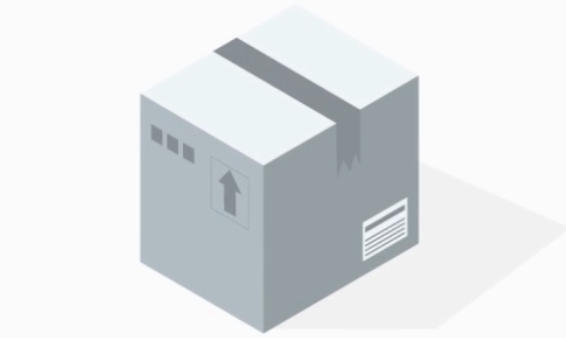
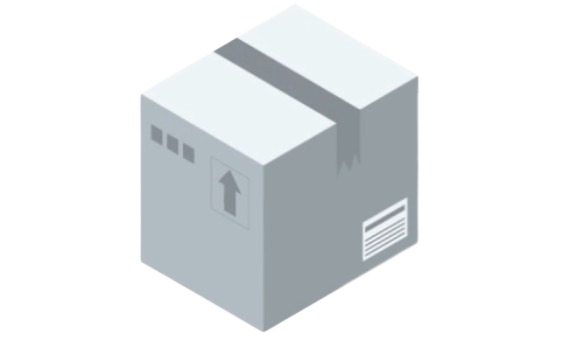
updated shipment history

diff --git a/lib/screens/shipment_history/components/shipment_history.view.dart b/lib/screens/shipment_history/components/shipment_history.view.dart
@@ -1,33 +1,45 @@
 import 'package:flutter/material.dart';
 import 'package:flutter_animate/flutter_animate.dart';
 import 'package:flutter_screenutil/flutter_screenutil.dart';
+import 'package:movemate/assets/images.dart';
 import 'package:movemate/core/styles/colors.dart';
 import 'package:movemate/core/styles/spacing.dart';
 import 'package:movemate/core/styles/text.dart';
+import 'package:movemate/enums/shipment_status.enum.dart';
 
 class ShipmentHistoryView extends StatelessWidget {
-  const ShipmentHistoryView({super.key});
+  const ShipmentHistoryView({super.key, required this.shipmentStatus});
+
+  final ShipmentStatus shipmentStatus;
 
   @override
   Widget build(BuildContext context) {
     return ListView.separated(
-      itemCount: 50,
+      itemCount: 5,
       padding: EdgeInsets.only(
         top: 10.h,
         left: AppPadding.horizontal,
         right: AppPadding.horizontal,
         bottom: 40.h,
       ),
-      itemBuilder: (context, index) => ShipmentHistoryCard(index: index),
+      itemBuilder: (context, index) => ShipmentHistoryCard(
+        index: index,
+        shipmentStatus: shipmentStatus,
+      ),
       separatorBuilder: (context, index) => SizedBox(height: 20.h),
     );
   }
 }
 
 class ShipmentHistoryCard extends StatelessWidget {
-  const ShipmentHistoryCard({super.key, required this.index});
+  const ShipmentHistoryCard({
+    super.key,
+    required this.index,
+    required this.shipmentStatus,
+  });
 
   final int index;
+  final ShipmentStatus shipmentStatus;
 
   @override
   Widget build(BuildContext context) {
@@ -47,7 +59,7 @@ class ShipmentHistoryCard extends StatelessWidget {
             child: Column(
               crossAxisAlignment: CrossAxisAlignment.start,
               children: [
-                const ShipmentStatusView(),
+                ShipmentStatusView(shipmentStatus),
                 SizedBox(height: 8.h),
                 Text(
                   'Arriving today!',
@@ -85,14 +97,14 @@ class ShipmentHistoryCard extends StatelessWidget {
             ),
           ),
           SizedBox(width: 10.w),
-          Container(
-            height: 60.h,
-            width: 50.w,
-            color: Colors.black,
+          Image.asset(
+            AppImages.box,
+            height: 80.h,
+            width: 80.w,
           ),
         ],
       ),
-    ).animate(key: UniqueKey()).slideY(
+    ).animate().slideY(
           begin: 0.7.h,
           duration: Duration(milliseconds: 600 + (index * 100)),
           curve: Curves.easeIn,
@@ -101,13 +113,56 @@ class ShipmentHistoryCard extends StatelessWidget {
 }
 
 class ShipmentStatusView extends StatelessWidget {
-  const ShipmentStatusView({super.key});
+  const ShipmentStatusView(this.shipmentStatus, {super.key});
+
+  final ShipmentStatus shipmentStatus;
 
   @override
   Widget build(BuildContext context) {
+    switch (shipmentStatus) {
+      case ShipmentStatus.inProgress:
+        return view(
+          context: context,
+          icon: Icons.refresh,
+          color: const Color(0xff5ec699),
+          message: 'In progress',
+        );
+      case ShipmentStatus.completed:
+        return view(
+          context: context,
+          icon: Icons.check_circle_outline,
+          color: const Color(0xffbd7d09),
+          message: 'Completed',
+        );
+      case ShipmentStatus.cancelled:
+        return view(
+          context: context,
+          icon: Icons.refresh,
+          color: const Color(0xffd2556d),
+          message: 'Cancelled',
+        );
+      case ShipmentStatus.pending:
+        return view(
+          context: context,
+          icon: Icons.published_with_changes_outlined,
+          color: Colors.blue,
+          message: 'Loading',
+        );
+      default:
+    }
+
+    return const SizedBox.shrink();
+  }
+
+  UnconstrainedBox view({
+    required BuildContext context,
+    required IconData icon,
+    required Color color,
+    required String message,
+  }) {
     return UnconstrainedBox(
       child: Container(
-        padding: EdgeInsets.all(5.sp),
+        padding: EdgeInsets.symmetric(vertical: 5.h, horizontal: 10.w),
         decoration: BoxDecoration(
           color: AppColors.grey,
           borderRadius: BorderRadius.circular(20.r),
@@ -115,16 +170,17 @@ class ShipmentStatusView extends StatelessWidget {
         child: Row(
           children: [
             Icon(
-              Icons.refresh,
-              color: AppColors.green,
+              icon,
+              color: color,
               size: 15.sp,
+              weight: 2.sp,
             ),
             SizedBox(width: 8.w),
             Text(
-              'in-progress',
-              style: AppText.bold500(context).copyWith(
+              message,
+              style: AppText.bold600(context).copyWith(
                 fontSize: 13.sp,
-                color: AppColors.green,
+                color: color,
               ),
             ),
           ],

diff --git a/lib/screens/shipment_history/shipment_history_screen.dart b/lib/screens/shipment_history/shipment_history_screen.dart
@@ -3,9 +3,10 @@ import 'package:flutter_screenutil/flutter_screenutil.dart';
 import 'package:movemate/core/styles/spacing.dart';
 import 'package:movemate/core/styles/text.dart';
 import 'package:movemate/core/utils/navigator.dart';
+import 'package:movemate/enums/shipment_status.enum.dart';
 import 'package:movemate/screens/dashboardview.dart';
 import 'package:movemate/screens/shipment_history/components/shipment_history_appbar.dart';
-import 'package:movemate/screens/shipment_history/components/shipment_history_view.dart';
+import 'package:movemate/screens/shipment_history/components/shipment_history.view.dart';
 
 class ShipmentHistoryScreen extends StatefulWidget {
   const ShipmentHistoryScreen({super.key});
@@ -63,7 +64,13 @@ class _ShipmentHistoryScreenState extends State<ShipmentHistoryScreen>
           },
           body: TabBarView(
             controller: tabController,
-            children: List.generate(5, (index) => const ShipmentHistoryView()),
+            children: const [
+              ShipmentHistoryView(shipmentStatus: ShipmentStatus.inProgress),
+              ShipmentHistoryView(shipmentStatus: ShipmentStatus.completed),
+              ShipmentHistoryView(shipmentStatus: ShipmentStatus.inProgress),
+              ShipmentHistoryView(shipmentStatus: ShipmentStatus.pending),
+              ShipmentHistoryView(shipmentStatus: ShipmentStatus.cancelled),
+            ],
           ),
         ),
       ),

diff --git a/lib/assets/images.dart b/lib/assets/images.dart
@@ -3,6 +3,7 @@ class AppImages {
 
   static const logo = 'assets/logo.png';
   static const box = 'assets/box.png';
+  static const boxWithShadow = 'assets/box-with-shadow.png';
   static const cargoShip = 'assets/cargo-ship.png';
   static const cargoTruck = 'assets/cargo-truck.png';
   static const train = 'assets/train.png';

diff --git a/lib/screens/shipment_history/components/shipment_history_appbar.dart b/lib/screens/shipment_history/components/shipment_history_appbar.dart
@@ -107,7 +107,7 @@ class _Tab extends StatelessWidget {
   @override
   Widget build(BuildContext context) {
     //final count = (Random().nextInt(5) + 1).toString();
-    const count = '2';
+    const count = '5';
 
     return AnimatedButton(
       onTap: () {

diff --git a/lib/enums/shipment_status.enum.dart b/lib/enums/shipment_status.enum.dart
@@ -1,0 +1,1 @@
+enum ShipmentStatus { completed, inProgress, pending, cancelled }
